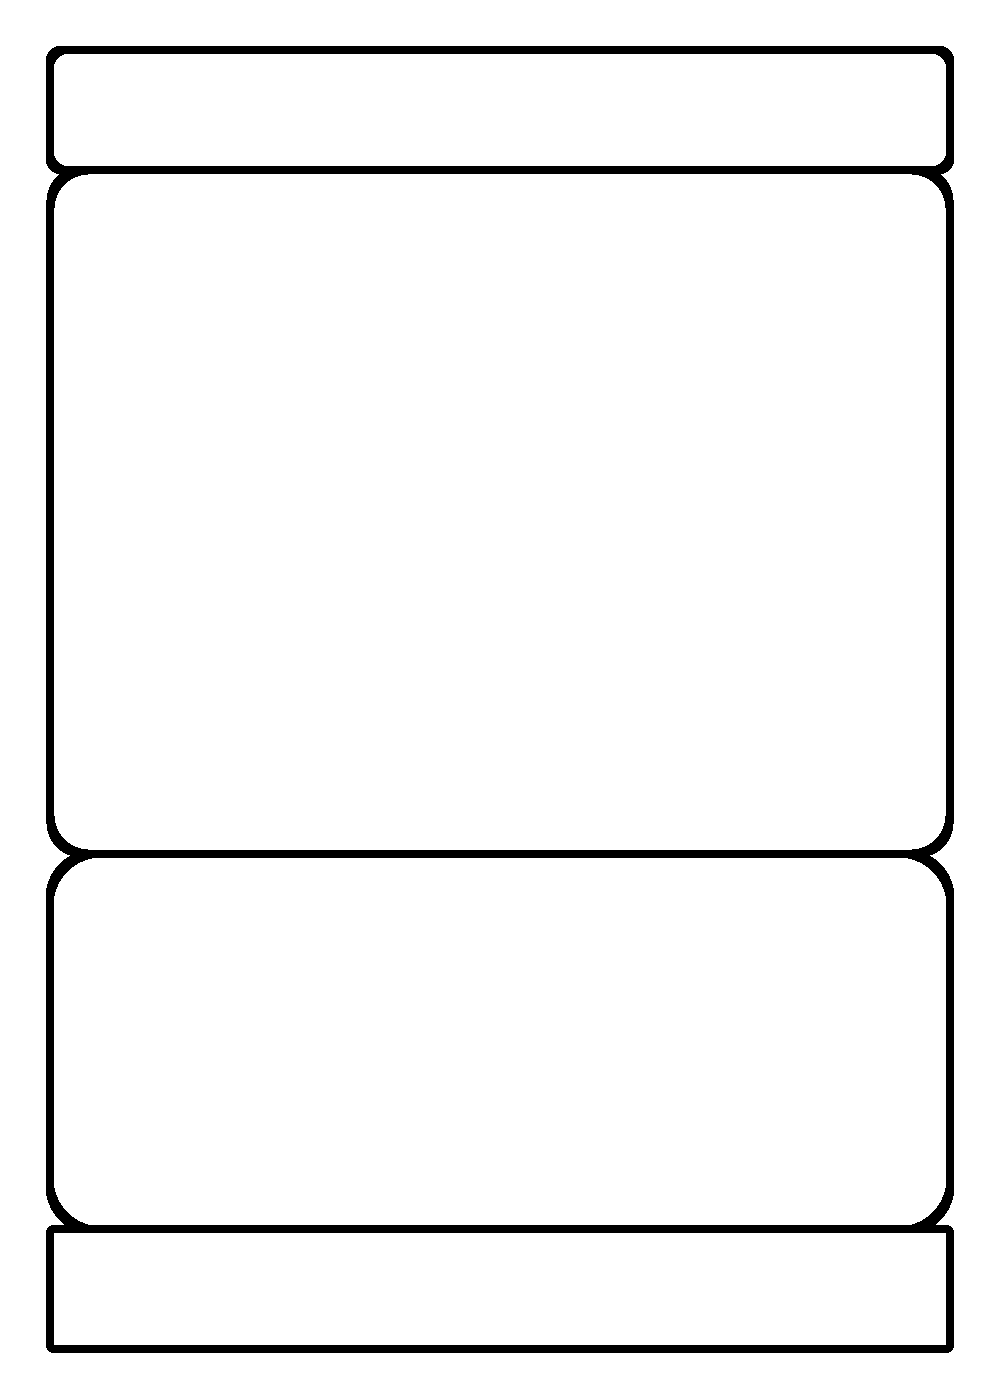
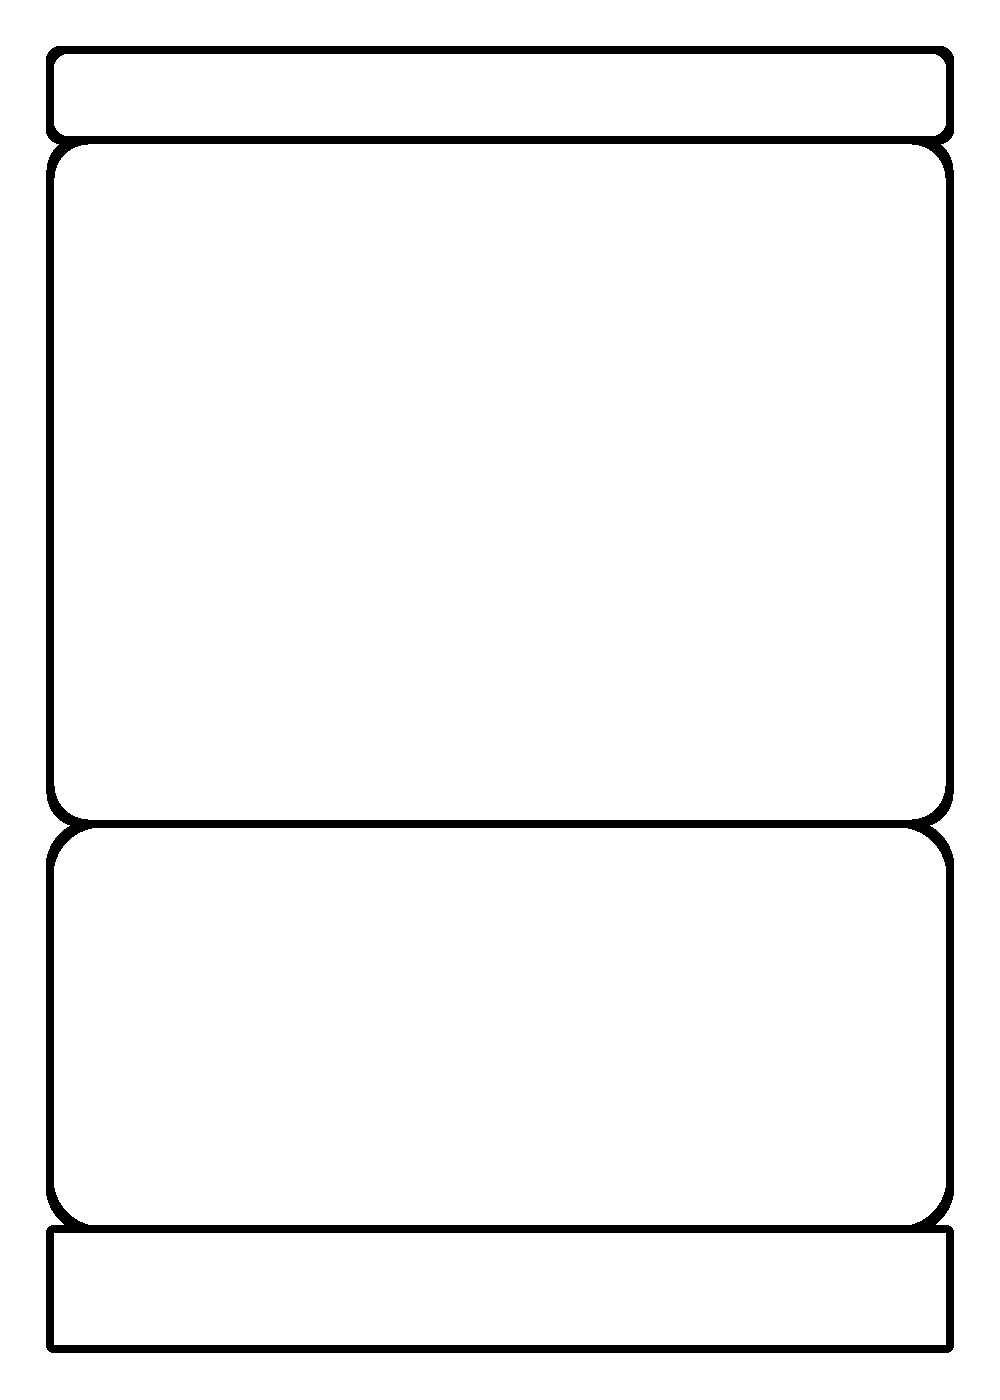
New border template

Changed region(s): [[0.031, 0.5529, 0.961, 0.645], [0.031, 0.0921, 0.961, 0.1536]]

diff --git a/RogueProject.py b/RogueProject.py
@@ -28,7 +28,7 @@ NUMBER_HEIGHT = 100 * SCALING_FACTOR
 
 TEXT_WIDTH_START = int(9/100 * CARD_WIDTH)
 TEXT_WIDTH_END = int(91/100 * CARD_WIDTH)
-TEXT_HEIGHT_START = int(89 / 140 * CARD_HEIGHT)
+TEXT_HEIGHT_START = int(86 / 140 * CARD_HEIGHT)
 TEXT_HEIGHT_END = int(1188/1400 * CARD_HEIGHT)
 
 POWER_NUMBER_POSITION_W = int(500 / 1000 * CARD_WIDTH)
@@ -50,23 +50,22 @@ COST_NUMBER_COLOR = (1, 1, 1, 255)
 
 NAME_WIDTH_START = int(63/1000 * CARD_WIDTH)
 NAME_WIDTH_END = int(87/100 * CARD_WIDTH)
-NAME_HEIGHT = int(110/1400 * CARD_HEIGHT)
+NAME_HEIGHT = int(96/1400 * CARD_HEIGHT)
 
 CREATURE_WIDTH = 448 * SCALING_FACTOR
 CREATURE_HEIGHT = 343 * SCALING_FACTOR
 
-ALLEGIENCE_HEIGHT = int(54/1400 * CARD_HEIGHT)
+ALLEGIENCE_HEIGHT = int(55/1400 * CARD_HEIGHT)
 
 TRICOLOR_TRIANGLE_VERTICE_HEIGHT1 = 450 * SCALING_FACTOR
 TRICOLOR_TRIANGLE_VERTICE_HEIGHT2 = 325 * SCALING_FACTOR
 
-LOGO_WIDTH = int(43 * SCALING_FACTOR)
-LOGO_HEIGHT = int(43 * SCALING_FACTOR)
+LOGO_WIDTH = int(28.5 * SCALING_FACTOR)
+LOGO_HEIGHT = int(28.5 * SCALING_FACTOR)
 LOGO_BORDER_WIDTH = int(3 * SCALING_FACTOR)
 
 LOGO_POSITION_W = int(946/1000 * CARD_WIDTH)
-LOGO_POSITION_H = int(81/1400 * CARD_HEIGHT) - LOGO_BORDER_WIDTH
-
+LOGO_POSITION_H = int(79/1400 * CARD_HEIGHT) - LOGO_BORDER_WIDTH
 
 LINE_SPACE_HEIGHT = 1
 
@@ -489,12 +488,11 @@ def create_card(card_template_path, border_template_path, creature_image_path, s
 
     allegience_text_images = []
     for i in range(len(allegiences)):
-        allegience_text_images.append(create_text_image(allegiences[i], os.path.join(logos_path, TEXT_FONT), 10 * SCALING_FACTOR, (1, 1, 1, 255)))
-
+        allegience_text_images.append(create_text_image(allegiences[i], os.path.join(logos_path, TEXT_FONT), 8 * SCALING_FACTOR, (1, 1, 1, 255)))
 
     #allegience_text_image = create_text_image(" ".join(allegiences), os.path.join(logos_path, TEXT_FONT), 15 * SCALING_FACTOR, (1, 1, 1, 255))
 
-    creature_image = cv.copyMakeBorder(creature_image.copy(), 86 * SCALING_FACTOR, 0, 27 * SCALING_FACTOR, 0, cv.BORDER_CONSTANT, None, (0, 0, 0, 0))
+    creature_image = cv.copyMakeBorder(creature_image.copy(), 71 * SCALING_FACTOR, 0, 27 * SCALING_FACTOR, 0, cv.BORDER_CONSTANT, None, (0, 0, 0, 0))
 
     creature_n_border = add_two_images(creature_image, border_template, (0, 0))
 
